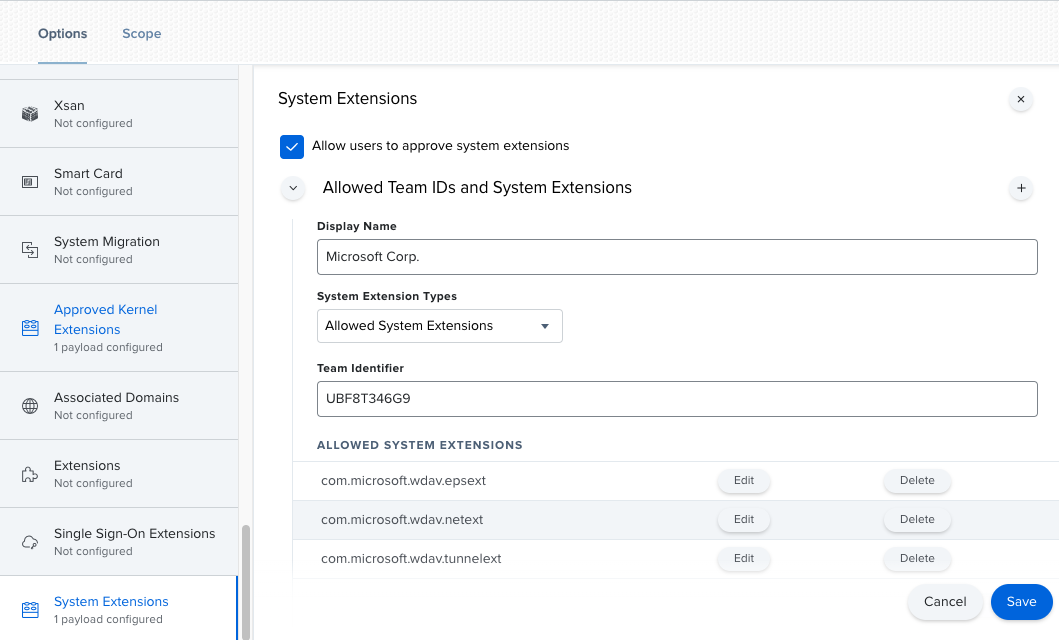
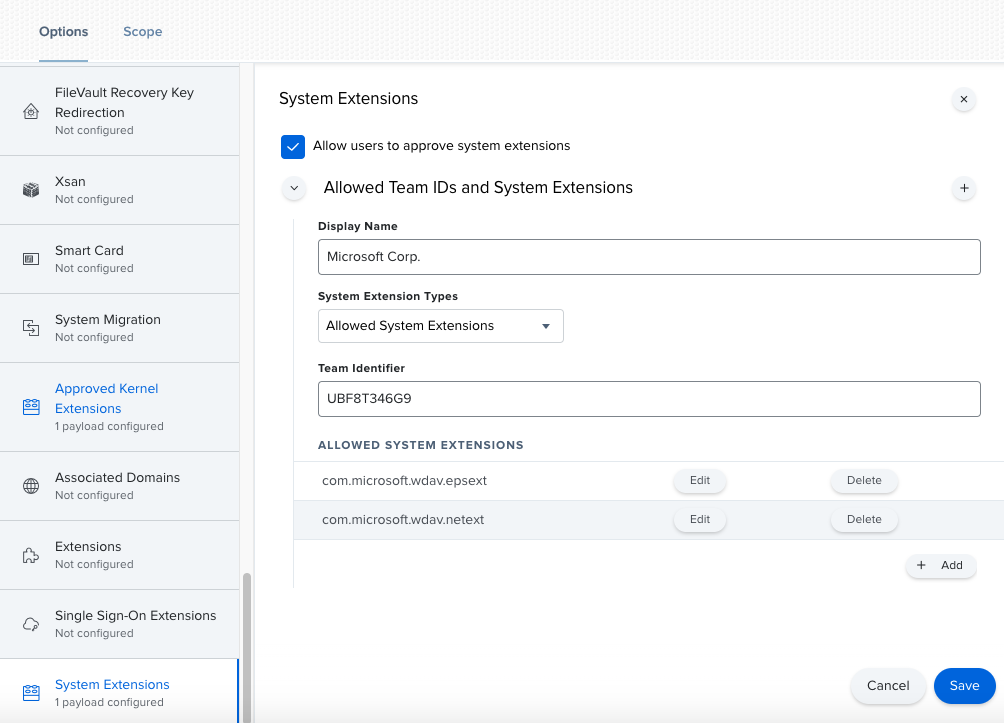
Updates

diff --git a/windows/security/threat-protection/microsoft-defender-atp/linux-resources.md b/windows/security/threat-protection/microsoft-defender-atp/linux-resources.md
@@ -86,10 +86,10 @@ The following table lists commands for some of the most common scenarios. Run `m
 |Configuration         |Turn on/off product diagnostics                         |`mdatp config cloud-diagnostic --value [enabled|disabled]`             |
 |Configuration         |Turn on/off automatic sample submission                 |`mdatp config cloud-automatic-sample-submission [enabled|disabled]`    |
 |Configuration         |Turn on/off AV passive mode                             |`mdatp config passive-mode [enabled|disabled]`                         |
-|Configuration         |Add/remove an antivirus exclusion for a file extension  |`mdatp exclusion extension [add|remove] --name <extension>`            |
-|Configuration         |Add/remove an antivirus exclusion for a file            |`mdatp exclusion file [add|remove] --path <path-to-file>`              |
-|Configuration         |Add/remove an antivirus exclusion for a directory       |`mdatp exclusion folder [add|remove] --path <path-to-directory>`       |
-|Configuration         |Add/remove an antivirus exclusion for a process         |`mdatp exclusion process [add|remove] --path <path-to-process>`<br/>`mdatp exclusion process [add|remove] --name <process-name>`   |
+|Configuration         |Add/remove an antivirus exclusion for a file extension  |`mdatp exclusion extension [add|remove] --name [extension]`            |
+|Configuration         |Add/remove an antivirus exclusion for a file            |`mdatp exclusion file [add|remove] --path [path-to-file]`              |
+|Configuration         |Add/remove an antivirus exclusion for a directory       |`mdatp exclusion folder [add|remove] --path [path-to-directory]`       |
+|Configuration         |Add/remove an antivirus exclusion for a process         |`mdatp exclusion process [add|remove] --path [path-to-process]`<br/>`mdatp exclusion process [add|remove] --name [process-name]`   |
 |Configuration         |List all antivirus exclusions                           |`mdatp exclusion list`                                                 |
 |Configuration         |Turn on PUA protection                                  |`mdatp threat policy set --type potentially_unwanted_application --action block` |
 |Configuration         |Turn off PUA protection                                 |`mdatp threat policy set --type potentially_unwanted_application --action off` |
@@ -103,12 +103,12 @@ The following table lists commands for some of the most common scenarios. Run `m
 |Protection            |Cancel an ongoing on-demand scan                        |`mdatp scan cancel`                                                    |
 |Protection            |Request a security intelligence update                  |`mdatp definitions update`                                             |
 |Protection history    |Print the full protection history                       |`mdatp threat list`                                                    |
-|Protection history    |Get threat details                                      |`mdatp threat get --id <threat-id>`                                    |
+|Protection history    |Get threat details                                      |`mdatp threat get --id [threat-id]`                                    |
 |Quarantine management |List all quarantined files                              |`mdatp threat quarantine list`                                         |
 |Quarantine management |Remove all files from the quarantine                    |`mdatp threat quarantine remove-all`                                   |
-|Quarantine management |Add a file detected as a threat to the quarantine       |`mdatp threat quarantine add --id <threat-id>`                         |
-|Quarantine management |Remove a file detected as a threat from the quarantine  |`mdatp threat quarantine add --id <threat-id>`                         |
-|Quarantine management |Restore a file from the quarantine                      |`mdatp threat quarantine add --id <threat-id>`                         |
+|Quarantine management |Add a file detected as a threat to the quarantine       |`mdatp threat quarantine add --id [threat-id]`                         |
+|Quarantine management |Remove a file detected as a threat from the quarantine  |`mdatp threat quarantine add --id [threat-id]`                         |
+|Quarantine management |Restore a file from the quarantine                      |`mdatp threat quarantine add --id [threat-id]`                         |
 
 ## Microsoft Defender ATP portal information
 

diff --git a/windows/security/threat-protection/microsoft-defender-atp/mac-sysext-policies.md b/windows/security/threat-protection/microsoft-defender-atp/mac-sysext-policies.md
@@ -19,7 +19,7 @@ ms.topic: conceptual
 
 # New configuration profiles for macOS Catalina and newer versions of macOS
 
-In alignment with macOS evolution, we are preparing a Microsoft Defender ATP for Mac update that leverages system extensions instead of kernel extensions. This update will only be applicable to macOS Catalina (10.15) and newer version of macOS.
+In alignment with macOS evolution, we are preparing a Microsoft Defender ATP for Mac update that leverages system extensions instead of kernel extensions. This update will only be applicable to macOS Catalina (10.15.4) and newer versions of macOS.
 
 If you have deployed Microsoft Defender ATP for Mac in a managed environment (through JAMF, Intune, or another MDM solution), you must deploy new configuration profiles. Failure to do this will result in users getting approval prompts to run these new components.
 
@@ -36,7 +36,6 @@ To approve the system extensions, create the following payload:
 
     - **com.microsoft.wdav.epsext**
     - **com.microsoft.wdav.netext**
-    - **com.microsoft.wdav.tunnelext**
 
     ![Approved system extensions screenshot](images/mac-approved-system-extensions.png)
 
@@ -109,7 +108,7 @@ A web content filtering policy is needed to run the network extension. Add the f
                     <key>UserDefinedName</key>
                     <string>Microsoft Defender ATP Content Filter</string>
                     <key>PluginBundleID</key>
-                    <string>com.microsoft.wdav.daemon</string>
+                    <string>com.microsoft.wdav</string>
                     <key>FilterSockets</key>
                     <true/>
                     <key>FilterDataProviderBundleIdentifier</key>
@@ -193,7 +192,7 @@ Save the following content to a file named **sysext.xml**:
                 <key>UserDefinedName</key>
                 <string>Microsoft Defender ATP Content Filter</string>
                 <key>PluginBundleID</key>
-                <string>com.microsoft.wdav.daemon</string>
+                <string>com.microsoft.wdav</string>
                 <key>FilterSockets</key>
                 <true/>
                 <key>FilterDataProviderBundleIdentifier</key>
@@ -262,7 +261,6 @@ Save the following content to a file named **sysext.xml**:
                     <array>
                         <string>com.microsoft.wdav.epsext</string>
                         <string>com.microsoft.wdav.netext</string>
-                        <string>com.microsoft.wdav.tunnelext</string>
                     </array>
                 </dict>
             </dict>
